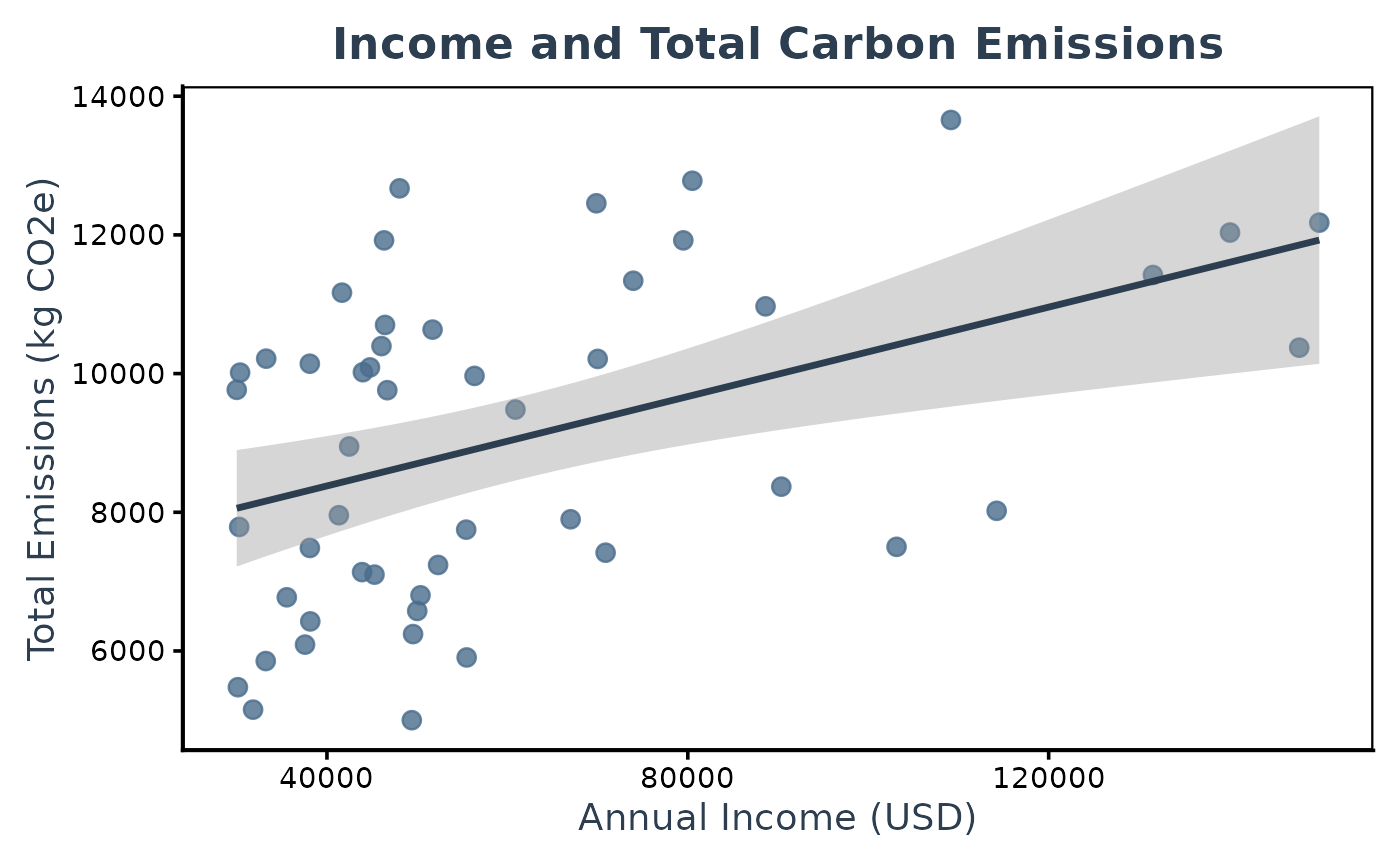
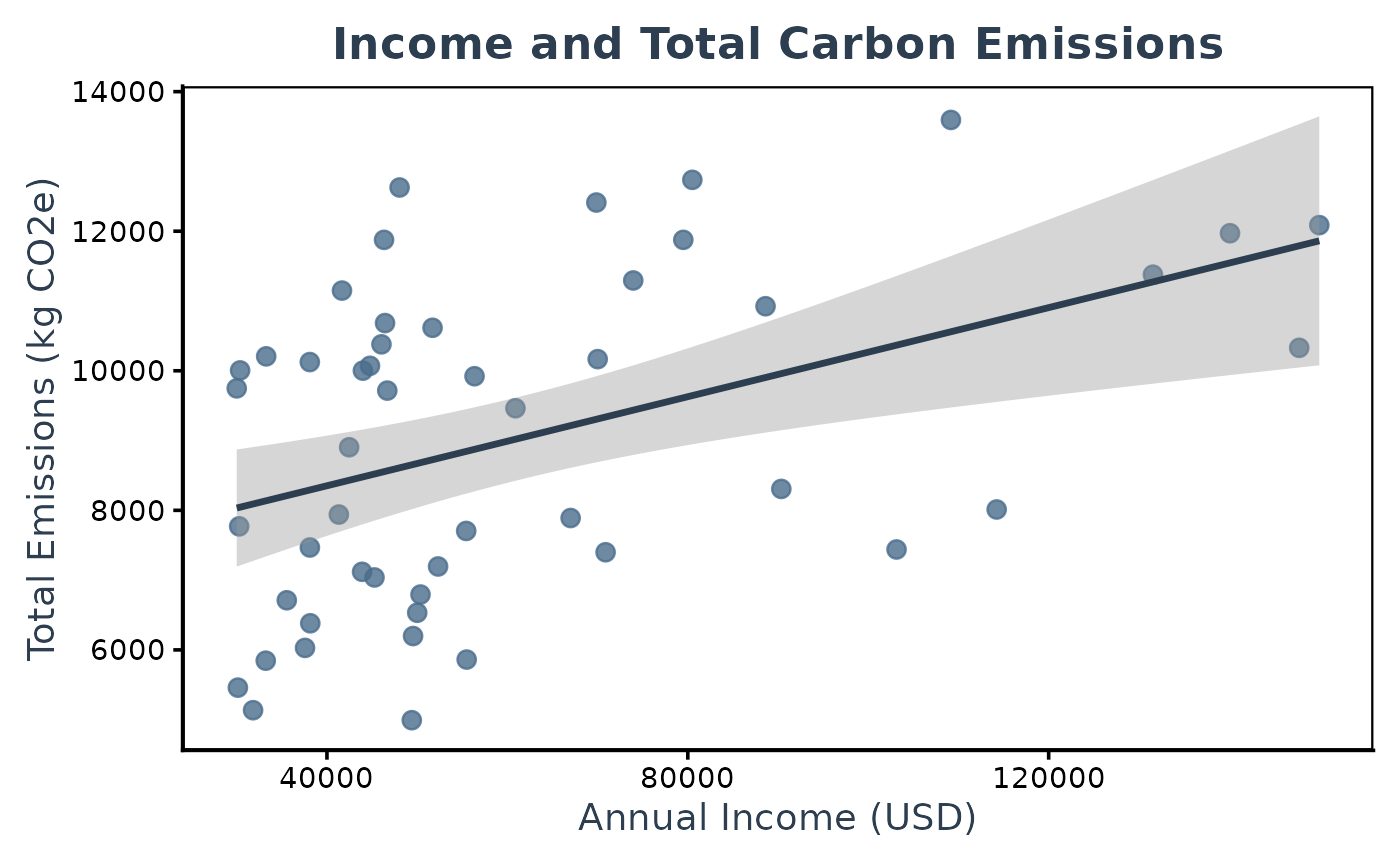
Deploying to gh-pages from @ jianing-d/SECFC@94a4a1b0b640fa4001d5fa923555f6ff43cbf6c7 🚀

diff --git a/articles/Analysis_Example.html b/articles/Analysis_Example.html
@@ -95,7 +95,7 @@ carbon emissions.</li>
 <span><span class="fu">remotes</span><span class="fu">::</span><span class="fu"><a href="https://remotes.r-lib.org/reference/install_github.html" class="external-link">install_github</a></span><span class="op">(</span><span class="st">"jianing-d/SECFC"</span><span class="op">)</span></span>
 <span><span class="co">#&gt; cpp11 (NA -&gt; 0.5.2) [CRAN]</span></span>
 <span><span class="co">#&gt; <span style="color: #00BBBB;">──</span> <span style="color: #00BBBB;">R CMD build</span> <span style="color: #00BBBB;">─────────────────────────────────────────────────────────────────</span></span></span>
-<span><span class="co">#&gt; * checking for file ‘/tmp/RtmpBsDwtz/remotes1b596296ce3a/jianing-d-SECFC-ecd1e8d/DESCRIPTION’ ... OK</span></span>
+<span><span class="co">#&gt; * checking for file ‘/tmp/Rtmpr3OQU9/remotes1e1b4622ace4/jianing-d-SECFC-94a4a1b/DESCRIPTION’ ... OK</span></span>
 <span><span class="co">#&gt; * preparing ‘SECFC’:</span></span>
 <span><span class="co">#&gt; * checking DESCRIPTION meta-information ... OK</span></span>
 <span><span class="co">#&gt; * checking for LF line-endings in source and make files and shell scripts</span></span>
@@ -236,18 +236,18 @@ carbon emissions. This is a basic linear model using the built-in
 <span><span class="co">#&gt; </span></span>
 <span><span class="co">#&gt; Residuals:</span></span>
 <span><span class="co">#&gt;     Min      1Q  Median      3Q     Max </span></span>
-<span><span class="co">#&gt; -3681.4 -1829.0   171.2  1823.4  4032.0 </span></span>
+<span><span class="co">#&gt; -3659.6 -1830.3   164.3  1833.5  4017.5 </span></span>
 <span><span class="co">#&gt; </span></span>
 <span><span class="co">#&gt; Coefficients:</span></span>
 <span><span class="co">#&gt;              Estimate Std. Error t value Pr(&gt;|t|)    </span></span>
-<span><span class="co">#&gt; (Intercept) 7.091e+03  6.486e+02   10.93 1.26e-14 ***</span></span>
-<span><span class="co">#&gt; income      3.223e-02  9.424e-03    3.42  0.00129 ** </span></span>
+<span><span class="co">#&gt; (Intercept) 7.076e+03  6.484e+02  10.912 1.35e-14 ***</span></span>
+<span><span class="co">#&gt; income      3.191e-02  9.422e-03   3.387  0.00142 ** </span></span>
 <span><span class="co">#&gt; ---</span></span>
 <span><span class="co">#&gt; Signif. codes:  0 '***' 0.001 '**' 0.01 '*' 0.05 '.' 0.1 ' ' 1</span></span>
 <span><span class="co">#&gt; </span></span>
 <span><span class="co">#&gt; Residual standard error: 2093 on 48 degrees of freedom</span></span>
-<span><span class="co">#&gt; Multiple R-squared:  0.1959, Adjusted R-squared:  0.1792 </span></span>
-<span><span class="co">#&gt; F-statistic:  11.7 on 1 and 48 DF,  p-value: 0.001286</span></span></code></pre></div>
+<span><span class="co">#&gt; Multiple R-squared:  0.1929, Adjusted R-squared:  0.176 </span></span>
+<span><span class="co">#&gt; F-statistic: 11.47 on 1 and 48 DF,  p-value: 0.00142</span></span></code></pre></div>
 </div>
 <div class="section level2">
 <h2 id="step-6-create-a-plot">Step 6: Create a Plot<a class="anchor" aria-label="anchor" href="#step-6-create-a-plot"></a>

diff --git a/authors.html b/authors.html
@@ -67,14 +67,14 @@
       <h2 id="citation">Citation</h2>
       <p></p>
 
-      <p>Ding J, Xia Z, Xie J, Lam K, Geiger N (2025).
+      <p>Ding J, Xia Z, Xie J, Lam K, Geiger N (2026).
 <em>SECFC: The Survey-Embedded Carbon Footprint Calculator (SECFC)</em>.
 R package version 0.1.0, <a href="https://jianing-d.github.io/SECFC/" class="external-link">https://jianing-d.github.io/SECFC/</a>.
 </p>
       <pre>@Manual{,
   title = {SECFC: The Survey-Embedded Carbon Footprint Calculator (SECFC)},
   author = {Jianing Ding and Ziqian Xia and Jinliang Xie and Ka Leung Lam and Nathaniel Geiger},
-  year = {2025},
+  year = {2026},
   note = {R package version 0.1.0},
   url = {https://jianing-d.github.io/SECFC/},
 }</pre>

diff --git a/articles/Analysis_Example.md b/articles/Analysis_Example.md
@@ -22,7 +22,7 @@ First, we need to install the package from GitHub. If you do not have
 remotes::install_github("jianing-d/SECFC")
 #> cpp11 (NA -> 0.5.2) [CRAN]
 #> ── R CMD build ─────────────────────────────────────────────────────────────────
-#> * checking for file ‘/tmp/RtmpBsDwtz/remotes1b596296ce3a/jianing-d-SECFC-ecd1e8d/DESCRIPTION’ ... OK
+#> * checking for file ‘/tmp/Rtmpr3OQU9/remotes1e1b4622ace4/jianing-d-SECFC-94a4a1b/DESCRIPTION’ ... OK
 #> * preparing ‘SECFC’:
 #> * checking DESCRIPTION meta-information ... OK
 #> * checking for LF line-endings in source and make files and shell scripts
@@ -168,18 +168,18 @@ summary(model)
 #> 
 #> Residuals:
 #>     Min      1Q  Median      3Q     Max 
-#> -3681.4 -1829.0   171.2  1823.4  4032.0 
+#> -3659.6 -1830.3   164.3  1833.5  4017.5 
 #> 
 #> Coefficients:
 #>              Estimate Std. Error t value Pr(>|t|)    
-#> (Intercept) 7.091e+03  6.486e+02   10.93 1.26e-14 ***
-#> income      3.223e-02  9.424e-03    3.42  0.00129 ** 
+#> (Intercept) 7.076e+03  6.484e+02  10.912 1.35e-14 ***
+#> income      3.191e-02  9.422e-03   3.387  0.00142 ** 
 #> ---
 #> Signif. codes:  0 '***' 0.001 '**' 0.01 '*' 0.05 '.' 0.1 ' ' 1
 #> 
 #> Residual standard error: 2093 on 48 degrees of freedom
-#> Multiple R-squared:  0.1959, Adjusted R-squared:  0.1792 
-#> F-statistic:  11.7 on 1 and 48 DF,  p-value: 0.001286
+#> Multiple R-squared:  0.1929, Adjusted R-squared:  0.176 
+#> F-statistic: 11.47 on 1 and 48 DF,  p-value: 0.00142
 ```
 
 ## Step 6: Create a Plot

diff --git a/authors.md b/authors.md
@@ -16,14 +16,14 @@
 
 ## Citation
 
-Ding J, Xia Z, Xie J, Lam K, Geiger N (2025). *SECFC: The
+Ding J, Xia Z, Xie J, Lam K, Geiger N (2026). *SECFC: The
 Survey-Embedded Carbon Footprint Calculator (SECFC)*. R package version
 0.1.0, <https://jianing-d.github.io/SECFC/>.
 
     @Manual{,
       title = {SECFC: The Survey-Embedded Carbon Footprint Calculator (SECFC)},
       author = {Jianing Ding and Ziqian Xia and Jinliang Xie and Ka Leung Lam and Nathaniel Geiger},
-      year = {2025},
+      year = {2026},
       note = {R package version 0.1.0},
       url = {https://jianing-d.github.io/SECFC/},
     }
